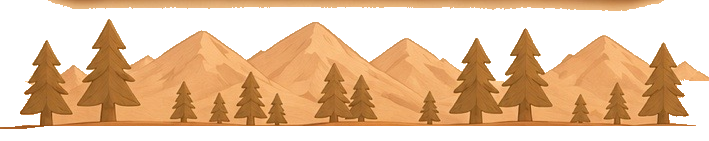
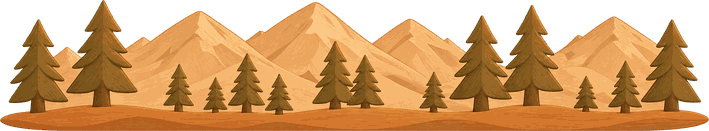
Add files via upload

diff --git a/index.html b/index.html
@@ -14,7 +14,7 @@
   <meta name="format-detection" content="telephone=no" />
   <title>Արեգ 3D աշխարհ</title>
   <link rel="manifest" href="manifest.webmanifest" />
-  <link rel="apple-touch-icon" href="icon-192.png?v=15" />
+  <link rel="apple-touch-icon" href="icon-192.png?v=18" />
   <script>
     window.__AREG_BUILD = new URLSearchParams(location.search).get('kiosk') || String(Date.now());
     const aregCss = document.createElement('link');
@@ -54,6 +54,17 @@
     }
   </style>
 
+
+  <style id="areg-v18-final-layout">
+    /* V18 FINAL: exact equal-size 2x2 section grid */
+    .nature-card,.space-card,.mind-card,.create-card{width:344px!important;height:400px!important;}
+    .nature-card{left:9px!important;top:260px!important;}
+    .space-card{left:356px!important;top:260px!important;}
+    .mind-card{left:9px!important;top:666px!important;}
+    .create-card{left:356px!important;top:666px!important;}
+    .magic-card{left:8px!important;top:1072px!important;width:694px!important;height:330px!important;}
+    .bottom-landscape{left:0!important;top:1405px!important;width:709px!important;height:131px!important;}
+  </style>
 </head>
 <body>
   <div id="appBackground" aria-hidden="true"></div>
@@ -65,38 +76,38 @@
   <main id="homeScreen" class="screen screen--active" aria-label="Գլխավոր ընտրացանկ">
     <div id="designStage" class="design-stage" role="application" aria-label="Արեգ 3D աշխարհ">
       <button id="avatarButton" class="asset-button avatar-button" aria-label="Փոխել կերպարի նկարը">
-        <img class="asset-img" src="avatar-frame.png?v=15" alt="" draggable="false" />
+        <img class="asset-img" src="avatar-frame.png?v=18" alt="" draggable="false" />
         <img id="savedAvatar" class="saved-avatar" alt="Ընտրված նկար" draggable="false" hidden />
       </button>
 
-      <img class="logo asset-img" src="logo.png?v=15" alt="Արեգ 3D աշխարհ" draggable="false" />
+      <img class="logo asset-img" src="logo.png?v=18" alt="Արեգ 3D աշխարհ" draggable="false" />
 
       <button id="starCounter" class="asset-button star-counter" aria-label="120 աստղ">
-        <img class="asset-img" src="star-counter.png?v=15" alt="120 աստղ" draggable="false" />
+        <img class="asset-img" src="star-counter.png?v=18" alt="120 աստղ" draggable="false" />
       </button>
 
       <button id="settingsButton" class="asset-button settings-button" aria-label="Կարգավորումներ">
-        <img class="asset-img" src="settings.png?v=15" alt="" draggable="false" />
+        <img class="asset-img" src="settings.png?v=18" alt="" draggable="false" />
       </button>
 
       <button class="section-card nature-card" data-section="nature" aria-label="Բնություն">
-        <img class="asset-img" src="nature.png?v=15" alt="Բնություն" draggable="false" />
+        <img class="asset-img" src="nature.png?v=18" alt="Բնություն" draggable="false" />
       </button>
       <button class="section-card space-card" data-section="space" aria-label="Տիեզերք">
-        <img class="asset-img" src="space.png?v=15" alt="Տիեզերք" draggable="false" />
+        <img class="asset-img" src="space.png?v=18" alt="Տիեզերք" draggable="false" />
       </button>
       <button class="section-card mind-card" data-section="mind" aria-label="Մտքի խաղեր">
-        <img class="asset-img" src="mind.png?v=15" alt="Մտքի խաղեր" draggable="false" />
+        <img class="asset-img" src="mind.png?v=18" alt="Մտքի խաղեր" draggable="false" />
       </button>
       <button class="section-card create-card" data-section="create" aria-label="Ստեղծագործություն">
-        <img class="asset-img" src="create.png?v=15" alt="Ստեղծագործություն" draggable="false" />
+        <img class="asset-img" src="create.png?v=18" alt="Ստեղծագործություն" draggable="false" />
       </button>
       <button class="section-card magic-card" data-section="magic" aria-label="Կախարդական աստղի սենյակ">
         <span class="magic-glow" aria-hidden="true"></span>
-        <img class="asset-img" src="magic.png?v=15" alt="Կախարդական աստղի սենյակ" draggable="false" />
+        <img class="asset-img" src="magic.png?v=18" alt="Կախարդական աստղի սենյակ" draggable="false" />
       </button>
 
-      <img class="bottom-landscape asset-img" src="bottom-landscape.png?v=15" alt="" draggable="false" />
+      <img class="bottom-landscape asset-img" src="bottom-landscape.png?v=18" alt="" draggable="false" />
     </div>
   </main>
 

diff --git a/styles.css b/styles.css
@@ -77,15 +77,15 @@ img { -webkit-user-drag:none; user-drag:none; user-select:none; -webkit-user-sel
 
 .section-card { overflow:visible; border-radius:44px; filter:drop-shadow(0 8px 14px rgba(44,22,8,.12)); }
 .section-card::after { content:none; }
-.nature-card { left:10px; top:266px; width:343px; height:412px; }
-.space-card { left:355px; top:266px; width:350px; height:412px; }
-.mind-card { left:10px; top:682px; width:343px; height:387px; }
-.create-card { left:355px; top:682px; width:350px; height:387px; }
-.magic-card { left:10px; top:1068px; width:694px; height:337px; border-radius:46px; }
+.nature-card { left:9px; top:260px; width:344px; height:400px; }
+.space-card { left:356px; top:260px; width:344px; height:400px; }
+.mind-card { left:9px; top:666px; width:344px; height:400px; }
+.create-card { left:356px; top:666px; width:344px; height:400px; }
+.magic-card { left:8px; top:1072px; width:694px; height:330px; border-radius:46px; }
 .magic-card::after { content:none; }
 .magic-glow { position:absolute; inset:21% 22% 29%; border-radius:50%; box-shadow:0 0 46px 13px var(--glow); opacity:.22; animation:magicGlow 3.2s ease-in-out infinite; pointer-events:none; }
 @keyframes magicGlow { 0%,100%{opacity:.15} 50%{opacity:.34} }
-.bottom-landscape { position:absolute; left:0; top:1395px; width:709px; height:141px; object-fit:contain; }
+.bottom-landscape { position:absolute; left:0; top:1405px; width:709px; height:131px; object-fit:contain; }
 
 .section-screen { background:linear-gradient(180deg, transparent, rgba(255,255,255,.03)); opacity:0; transform:translateX(4%); transition:opacity .22s ease, transform .22s ease; }
 .section-screen.is-visible { opacity:1; transform:none; }

diff --git a/service-worker.js b/service-worker.js
@@ -1,9 +1,9 @@
-const CACHE = 'areg-kids-game-v15';
+const CACHE = 'areg-kids-game-v18';
 const CORE = [
   './launcher.html',
   './', './index.html', './styles.css', './app.js', './v9-fix.js', './manifest.webmanifest',
-  './avatar-frame.png?v=15', './logo.png?v=15', './star-counter.png?v=15', './settings.png?v=15',
-  './nature.png?v=15', './space.png?v=15', './mind.png?v=15', './create.png?v=15', './magic.png?v=15', './bottom-landscape.png?v=15',
+  './avatar-frame.png?v=18', './logo.png?v=18', './star-counter.png?v=18', './settings.png?v=18',
+  './nature.png?v=18', './space.png?v=18', './mind.png?v=18', './create.png?v=18', './magic.png?v=18', './bottom-landscape.png?v=18',
   './menu-music.wav', './tap.wav',
   './icon-192.png', './icon-512.png',
   './day.svg', './night.svg', './winter.svg', './rain.svg', './aurora.svg',

diff --git a/launcher.html b/launcher.html
@@ -16,7 +16,7 @@
   const stamp = Date.now();
   try { if ('serviceWorker' in navigator) { const regs = await navigator.serviceWorker.getRegistrations(); await Promise.all(regs.map(r => r.unregister())); } } catch (_) {}
   try { if ('caches' in window) { const keys = await caches.keys(); await Promise.all(keys.map(k => caches.delete(k))); } } catch (_) {}
-  location.replace('./?kiosk=v15-' + stamp + '&hardrefresh=1');
+  location.replace('./?kiosk=v18-' + stamp + '&hardrefresh=1');
 })();
 </script>
 </body>
